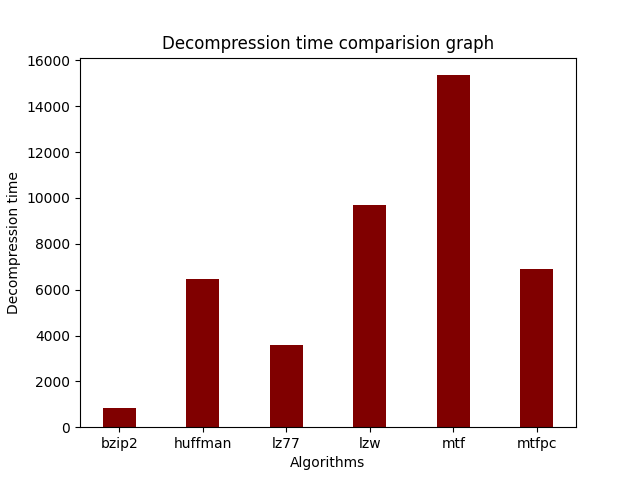
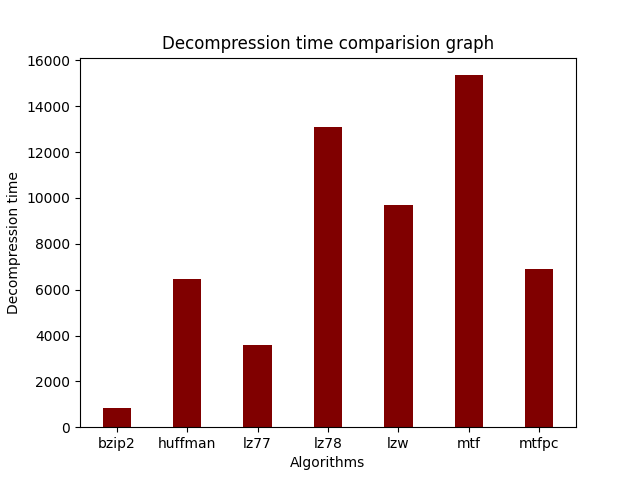
Changing Graphs

Changed region(s): [[0.25, 0.1562, 0.7812, 0.9375], [0.8125, 0.5625, 0.875, 0.9375], [0.1562, 0.8438, 0.2188, 0.9375]]

diff --git a/src/analyze.py b/src/analyze.py
@@ -13,7 +13,8 @@ with open(csv_file,"r+") as file:
 print(csv_data)
 
 algo_name=[]
-algo_name_copy=[]
+algo_name_6=[]
+algo_name_7=[]
 compression_time=[]
 decompression_time=[]
 compressed_file_size=[]
@@ -33,13 +34,14 @@ print(algo_name,compression_time,decompression_time,compressed_file_size)
 compression_time.pop()
 compression_time.pop(3)
 decompression_time.pop()
-decompression_time.pop(3)
-algo_name_copy=algo_name.copy()
-algo_name_copy.pop()
-algo_name_copy.pop(3)
+algo_name_6=algo_name.copy()
+algo_name_7=algo_name.copy()
+algo_name_6.pop()
+algo_name_6.pop(3)
+algo_name_7.pop()
 # creating the bar plot
 plt.figure(200)
-plt.bar(algo_name_copy, compression_time, color ='maroon', 
+plt.bar(algo_name_6, compression_time, color ='maroon', 
         width = 0.4)
 plt.xlabel("Algorithms")
 plt.ylabel("Compression time")
@@ -48,7 +50,7 @@ plt.show()
 
 
 plt.figure(300)
-plt.bar(algo_name_copy, decompression_time, color ='maroon', 
+plt.bar(algo_name_7, decompression_time, color ='maroon', 
         width = 0.4)
 plt.xlabel("Algorithms")
 plt.ylabel("Decompression time")
